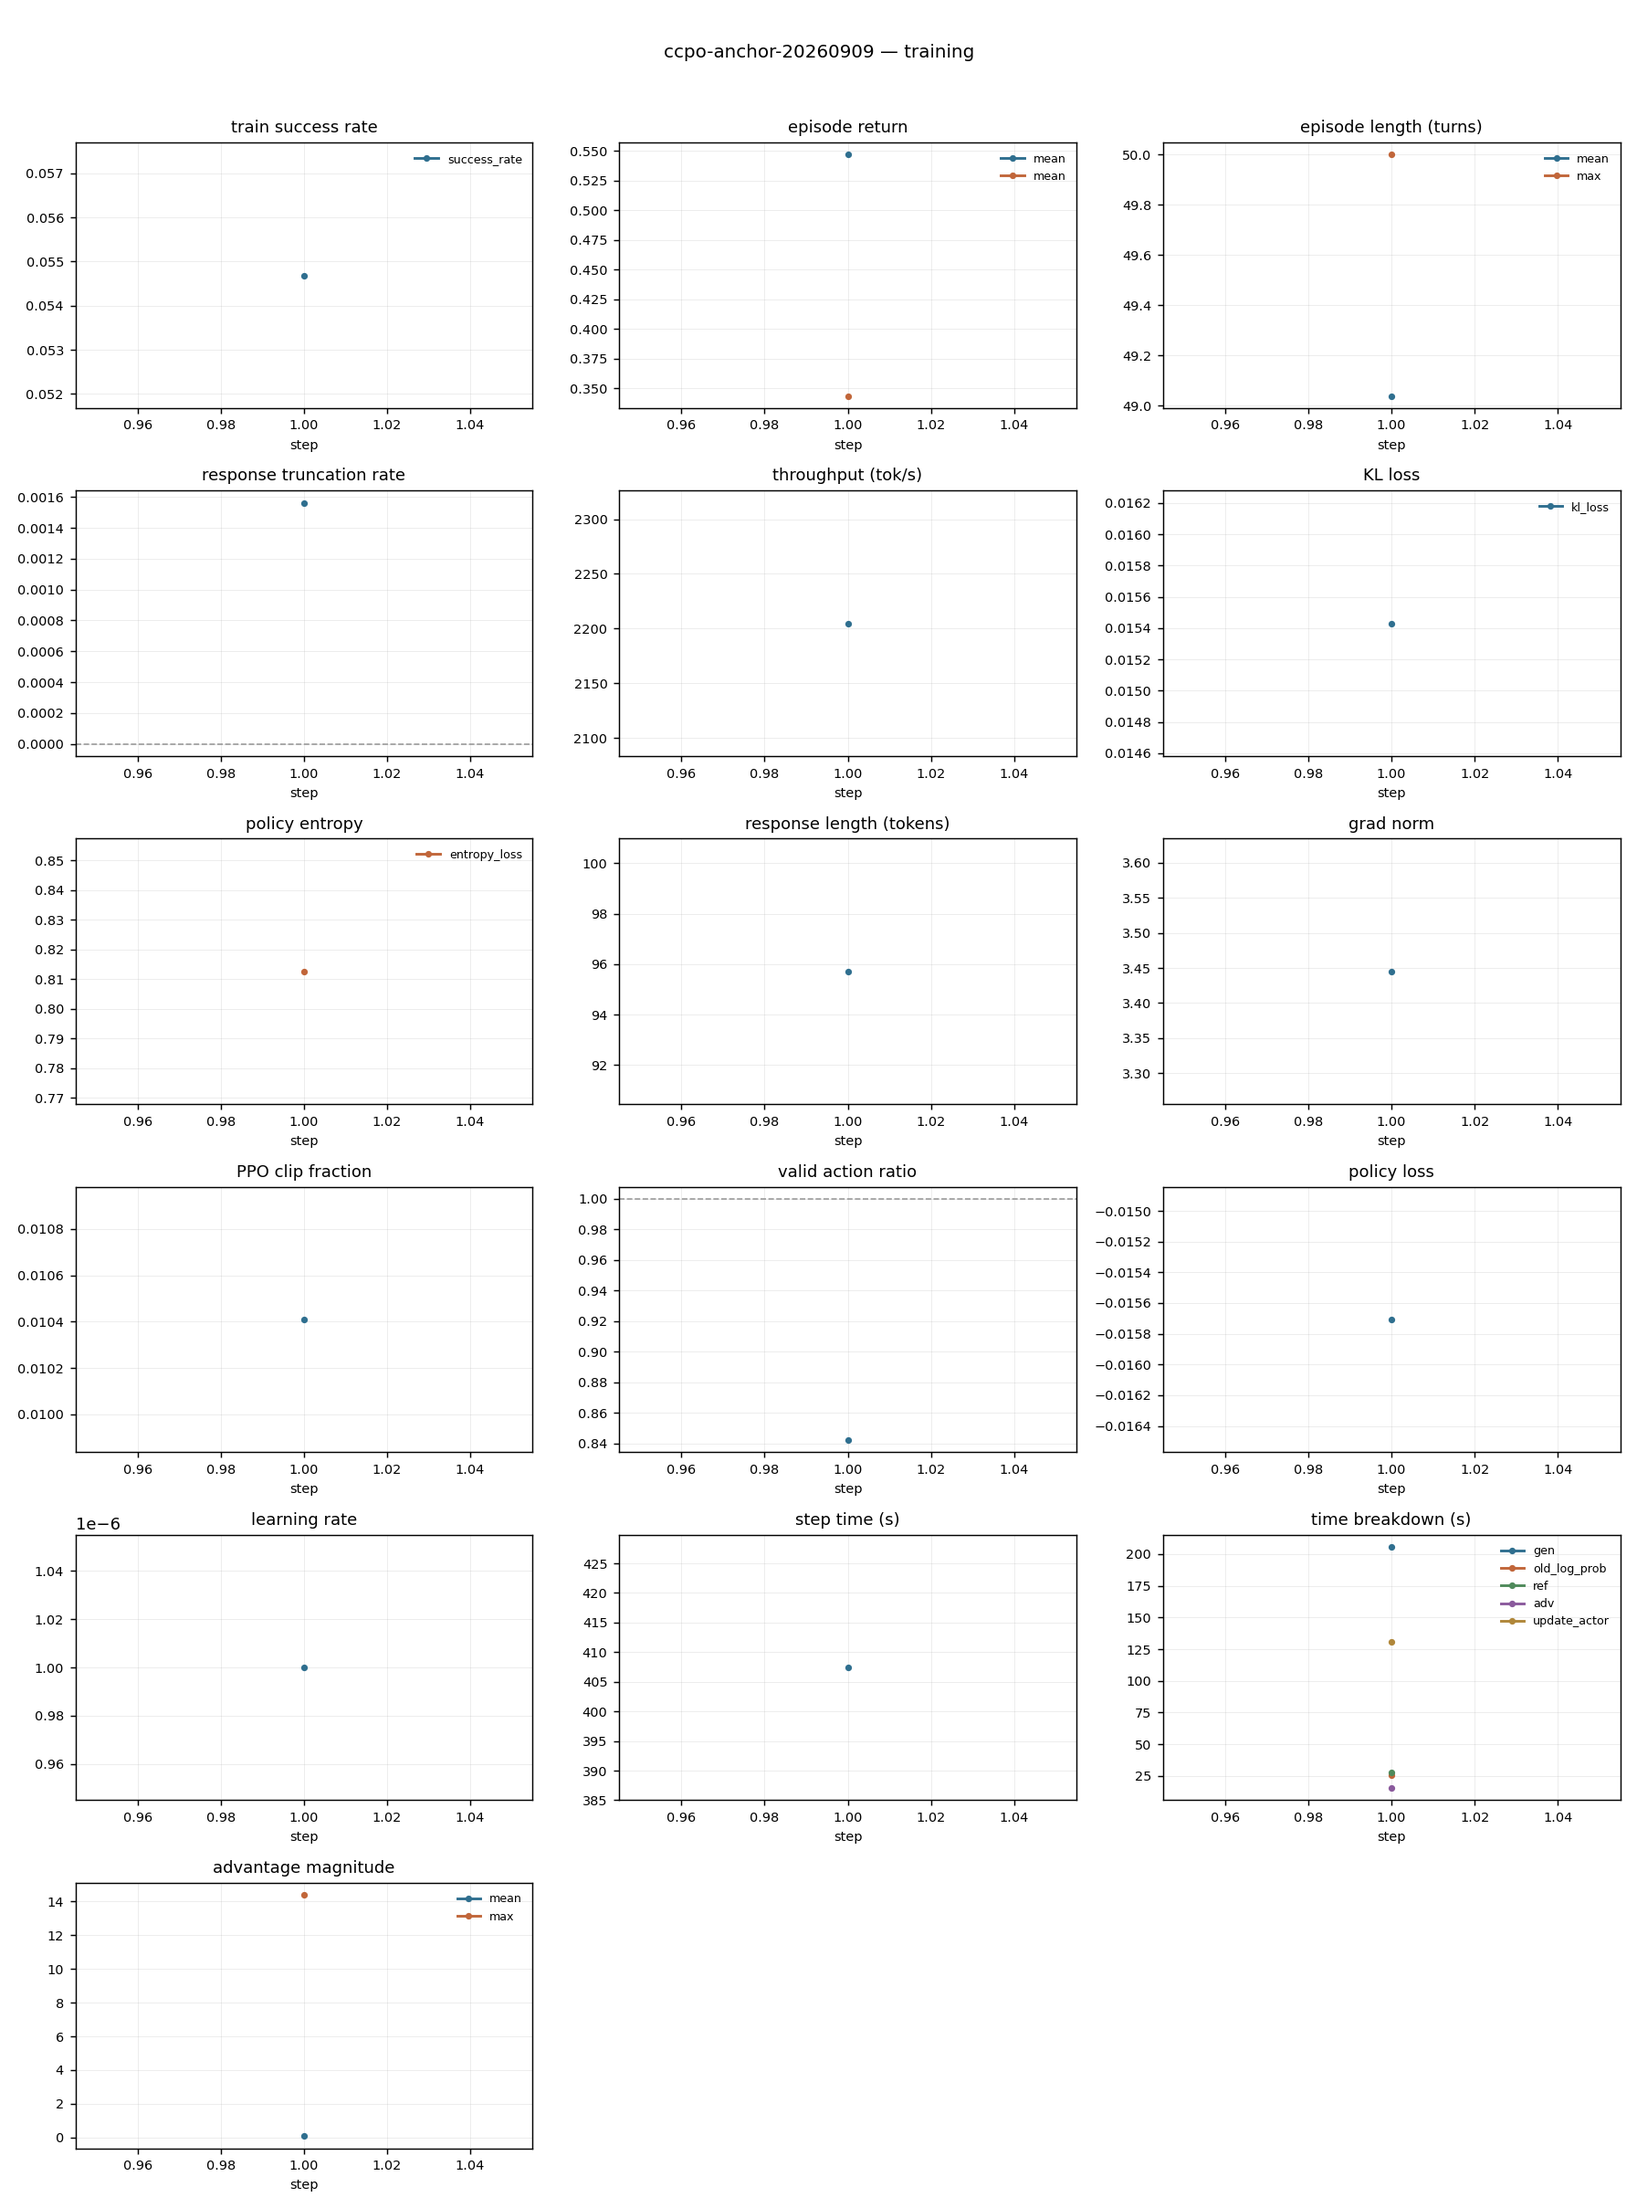
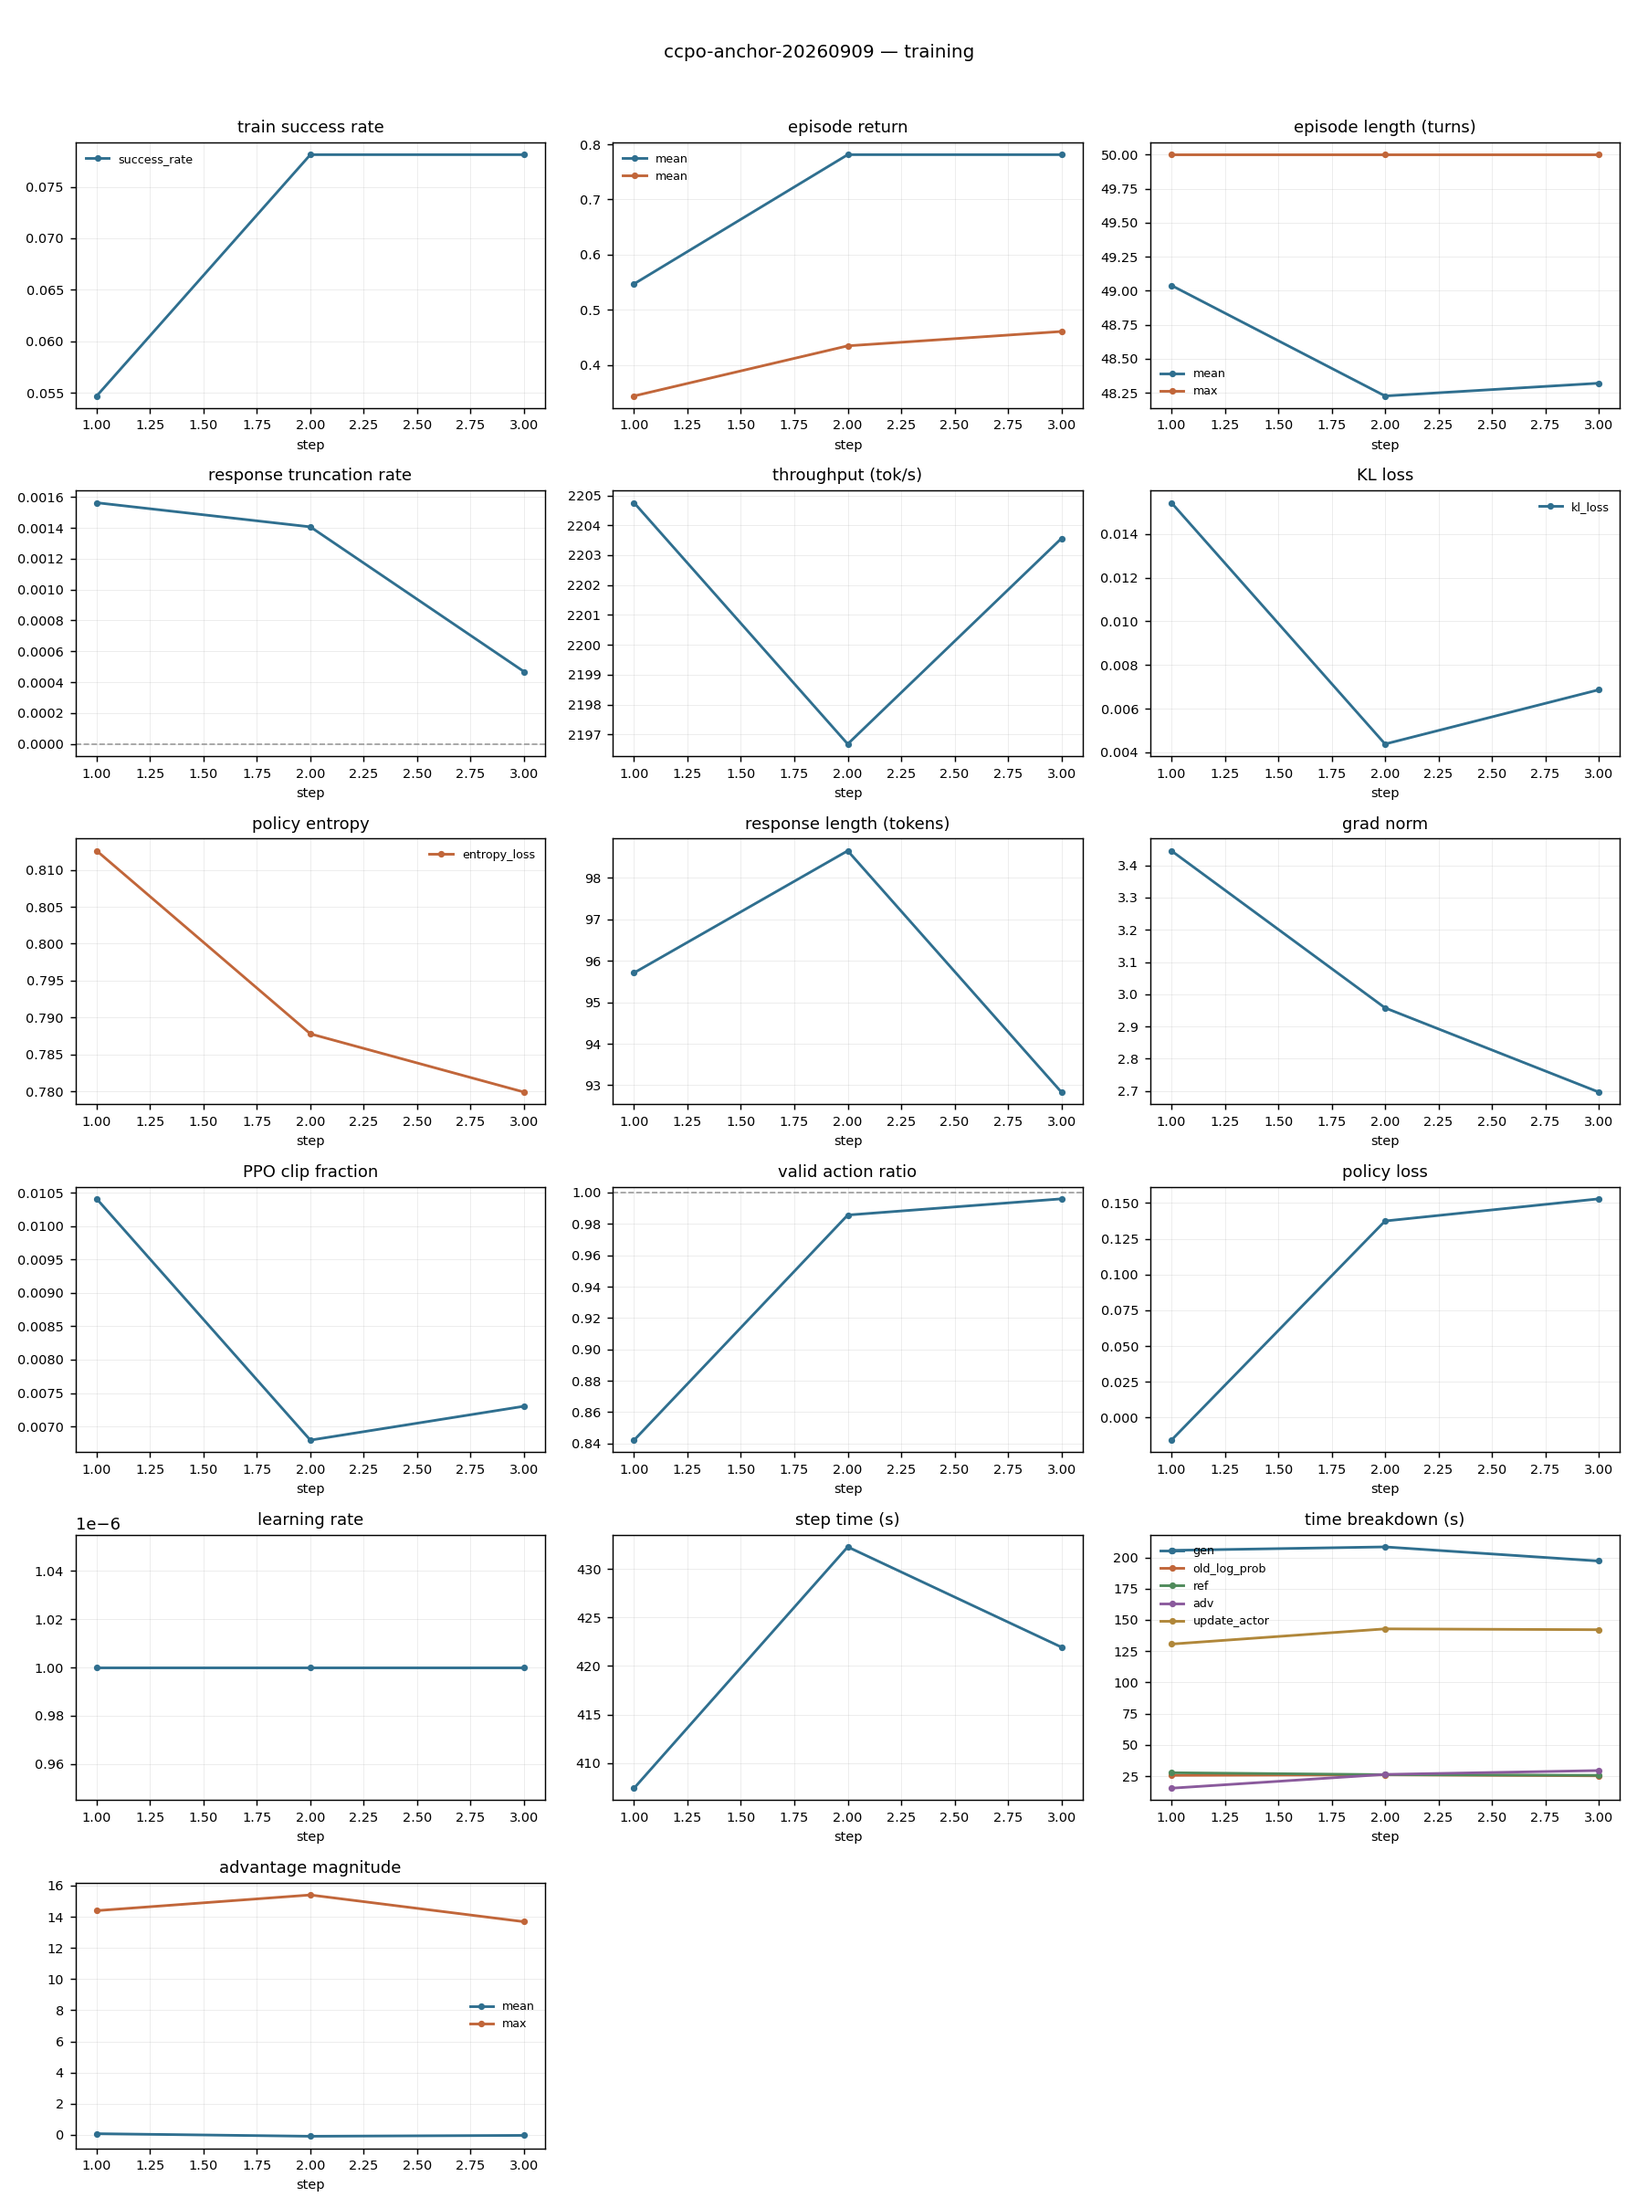
HANDOFF: record ccpo-anchor as the live arm with its step-1 result and resume command
The handoff still described the anchor repair as the next thing to run. It is running,
and its step-1 check passed: n_buckets 758->797, singleton fraction 0.335->0.227, and an
identical step-1 success rate confirming rollouts are unchanged so only credit
assignment differs. Adds the resume command for after the container rebuild, the kill
rule, and the caution that ccpo-hardedge already once moved effect_rel a hundredfold for
-0.01 points of held-out success.

Claude-Session: https://claude.ai/code/session_01TnVw4qcXikRNMjxhmmuJXY

diff --git a/HANDOFF.md b/HANDOFF.md
@@ -1,4 +1,4 @@
-# Handoff — 2026-09-08 (late)
+# Handoff — 2026-09-09
 
 State for a container rebuild. Everything below is committed; nothing lives only in a
 running process. Full reasoning for every entry is in `experiments/hypothesis.md`.
@@ -44,6 +44,7 @@ alongside a running arm.
 | `ccpo-gatedmem-20260908` | 20 (killed) | 15.6% @20 | stall-gated digest, H-Y |
 | `ccpo-memory-20260907` | 22 (stopped) | 9.4% @20 | ungated digest, H-W |
 | `ccpo-cheapmem-20260908` | 20 (stopped) | 16.4% @20 | digest at 192 tok / replace; cost fixed, mechanism null, H-AC |
+| `ccpo-anchor-20260909` | **RUNNING** | — | **G²PO anchor repair, H-AD. The live arm.** |
 
 Published at the same protocol (Qwen2.5-1.5B, ALFWorld, 100 iters, 3 seeds):
 **G²PO 95.0**, GiGPO 86.7 (at *150* iters), HGPO 92.77 (at 160), GRPO 72.8, RLOO 69.7,
@@ -151,9 +152,39 @@ ready to run (needs pid headroom — see top).
    Implemented behind **`ACG_OBS_REPAIR`** (default 0). `tests/test_obs_repair.py`
    transcribes G²PO's loop literally; ours matches **9/9 steps**.
 
-   **Run this first:** `ccpo-global` + `--set obs_repair=1`, 100 steps, everything else
-   identical to the 79.7% configuration. Single-flag ablation against the best result,
-   adopting a mechanism from the implementation that produced 95.0.
+   **LAUNCHED as `ccpo-anchor-20260909`** (GPUs 0–3, 100 steps, ~421 s/step). Config
+   diff against the 79.7% arm: `obs_repair` is the ONLY real difference.
+
+   **Step-1 check PASSED — the repair is live and the ablation is clean:**
+
+   | metric | base | anchor |
+   |---|---|---|
+   | `n_buckets` | 758 | **797** |
+   | `bucket_singleton_frac` | 0.335 | **0.227** |
+   | `bucket_size_p90` | 16 | 20 |
+   | `episode/success_rate` | 0.0547 | **0.0547** (identical → rollouts unchanged) |
+
+   Singletons fell 10.8 points: ~11% of occurrences moved from having NO leave-one-out
+   baseline to having neighbours. That is repair (B) — failures now anchor to their true
+   state instead of the shared `"Nothing happens."` string. (I had predicted singletons
+   would RISE; being wrong is what identified (B) as the dominant half.)
+
+   **Caution that must stay attached:** structural gain ≠ accuracy. `ccpo-hardedge` vs
+   `ccpo-global` moved `effect_rel` a hundredfold and moved held-out success by −0.01.
+   Judge this arm on held-out at steps 20/50/100, not on grouping metrics.
+
+   **Kill rule:** run to 50 unless held-out at step 20 is below ~11% (2 SE under base's
+   21.1%). Then judge at 50 vs base's 50.0%, at 100 vs 79.7%.
+
+   **To resume after the rebuild:**
+   ```
+   python3 scripts/exp_run.py --name ccpo-anchor2 --arm ccpo \
+     --set resume_from=experiments/ccpo-anchor-20260909/outputs/checkpoints/global_step_N \
+     --set total_epochs=100 --set obs_repair=1 --set ccpo_gate=global \
+     --set ccpo_phi=hidden+ctx --set ccpo_edge_w=1.0 --set ccpo_rho=0.59 \
+     --set ccpo_tau=0.15 --set ccpo_target=nextnode --set ccpo_shrink=eb \
+     --set ccpo_whiten=3 --set early_stop_min_steps=40 --set early_stop_patience=8
+   ```
 
 1. **H-AB — G²PO on our harness.** *Declined twice by the user*, so not run. It is now
    the only remaining way to attribute our 79.7%, because the config is proven
